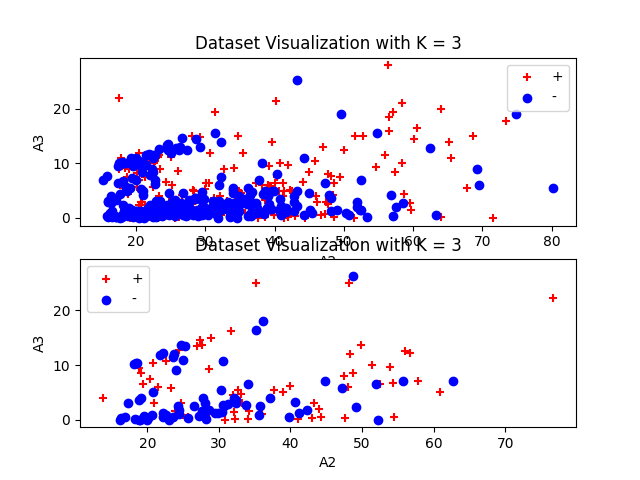
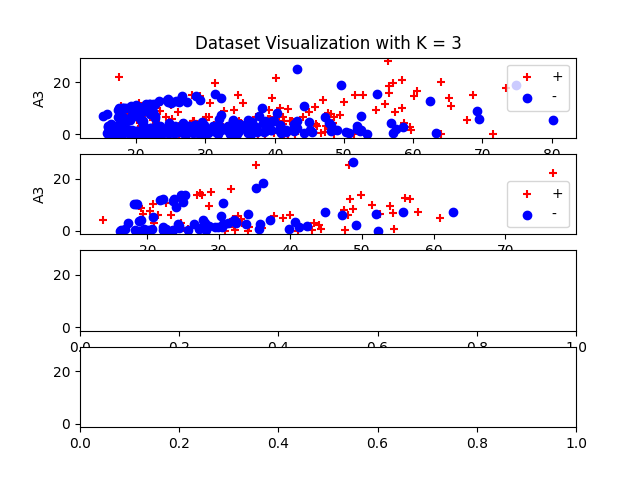
add show specific k distance

diff --git a/knn.py b/knn.py
@@ -58,7 +58,6 @@ def knn(x_train, y_train, x_test, actual=pd.DataFrame(), k=3, mode='test'):
                 distance = naive_euclidian_distance(x_train.iloc[j], x_test.iloc[i])
                 # menambah jarak dan y ke result_child, jangan gunakan append karena sudah usang
                 result_child.loc[j] = [distance, y_train.iloc[j]]
-
                 # print waktu
                 print(f'{i+1}/{vertical_length_test}')
                 # cetak print di terminal
@@ -66,6 +65,7 @@ def knn(x_train, y_train, x_test, actual=pd.DataFrame(), k=3, mode='test'):
             # dapatkan k jarak terdekat
             result_child = result_child.sort_values(by='distance')
             result_child = result_child.head(k)
+            # print(result_child)
             # dapatkan y_pred
             y_pred = result_child['y'].mode()[0]
             # tambahkan y_pred ke hasil
@@ -79,7 +79,7 @@ def knn(x_train, y_train, x_test, actual=pd.DataFrame(), k=3, mode='test'):
                     score += 1
             score = score / vertical_length_test
 
-        return y_result, score
+        return y_result, score, result_child
     else:
         raise Exception(f'Mode {mode} is not supported')
     
@@ -87,15 +87,17 @@ def knn(x_train, y_train, x_test, actual=pd.DataFrame(), k=3, mode='test'):
 k_list = [3, 5, 7]
 for k in k_list:
     print(f'K: {k}')
-    y_result, score = knn(X_train, y_train, X_test, y_test, k=k, mode='test')
+    y_result, score, result_child = knn(X_train, y_train, X_test, y_test, k=k, mode='test')
     print(f'Score: {score}')
     print(f'Time: {time.time() - start}')
+    # print(f'sorted distance: {}')
 
     # menyimpan data ke dalam bentuk csv
     y_result.to_csv(f'result/knn_k_{k}.csv', index=False)
+    result_child.to_csv(f'result/knn_distance_k_{k}.csv')
 
     # hasilkan plot dan simpan ke dalam png
-    fig, ax = plt.subplots(nrows=2, sharey=True)
+    fig, ax = plt.subplots(nrows=4, sharey=True)
     ax[0].scatter(X_train[y_train == 1]['A2'], X_train[y_train == 1]['A3'], c='red', marker='+', label="+")
     ax[0].scatter(X_train[y_train == 0]['A2'], X_train[y_train == 0]['A3'], c='blue', marker='o', label="-")
     ax[0].set_xlabel('A2')
@@ -107,7 +109,6 @@ for k in k_list:
     ax[1].scatter(X_test[y_test == 0]['A2'], X_test[y_test == 0]['A3'], c='blue', marker='o', label="-")
     ax[1].set_xlabel('A2')
     ax[1].set_ylabel('A3')
-    ax[1].set_title(f'Dataset Visualization with K = {k}')
     ax[1].legend()
     plt.savefig(f'result/knn_k_{k}.png')
 
